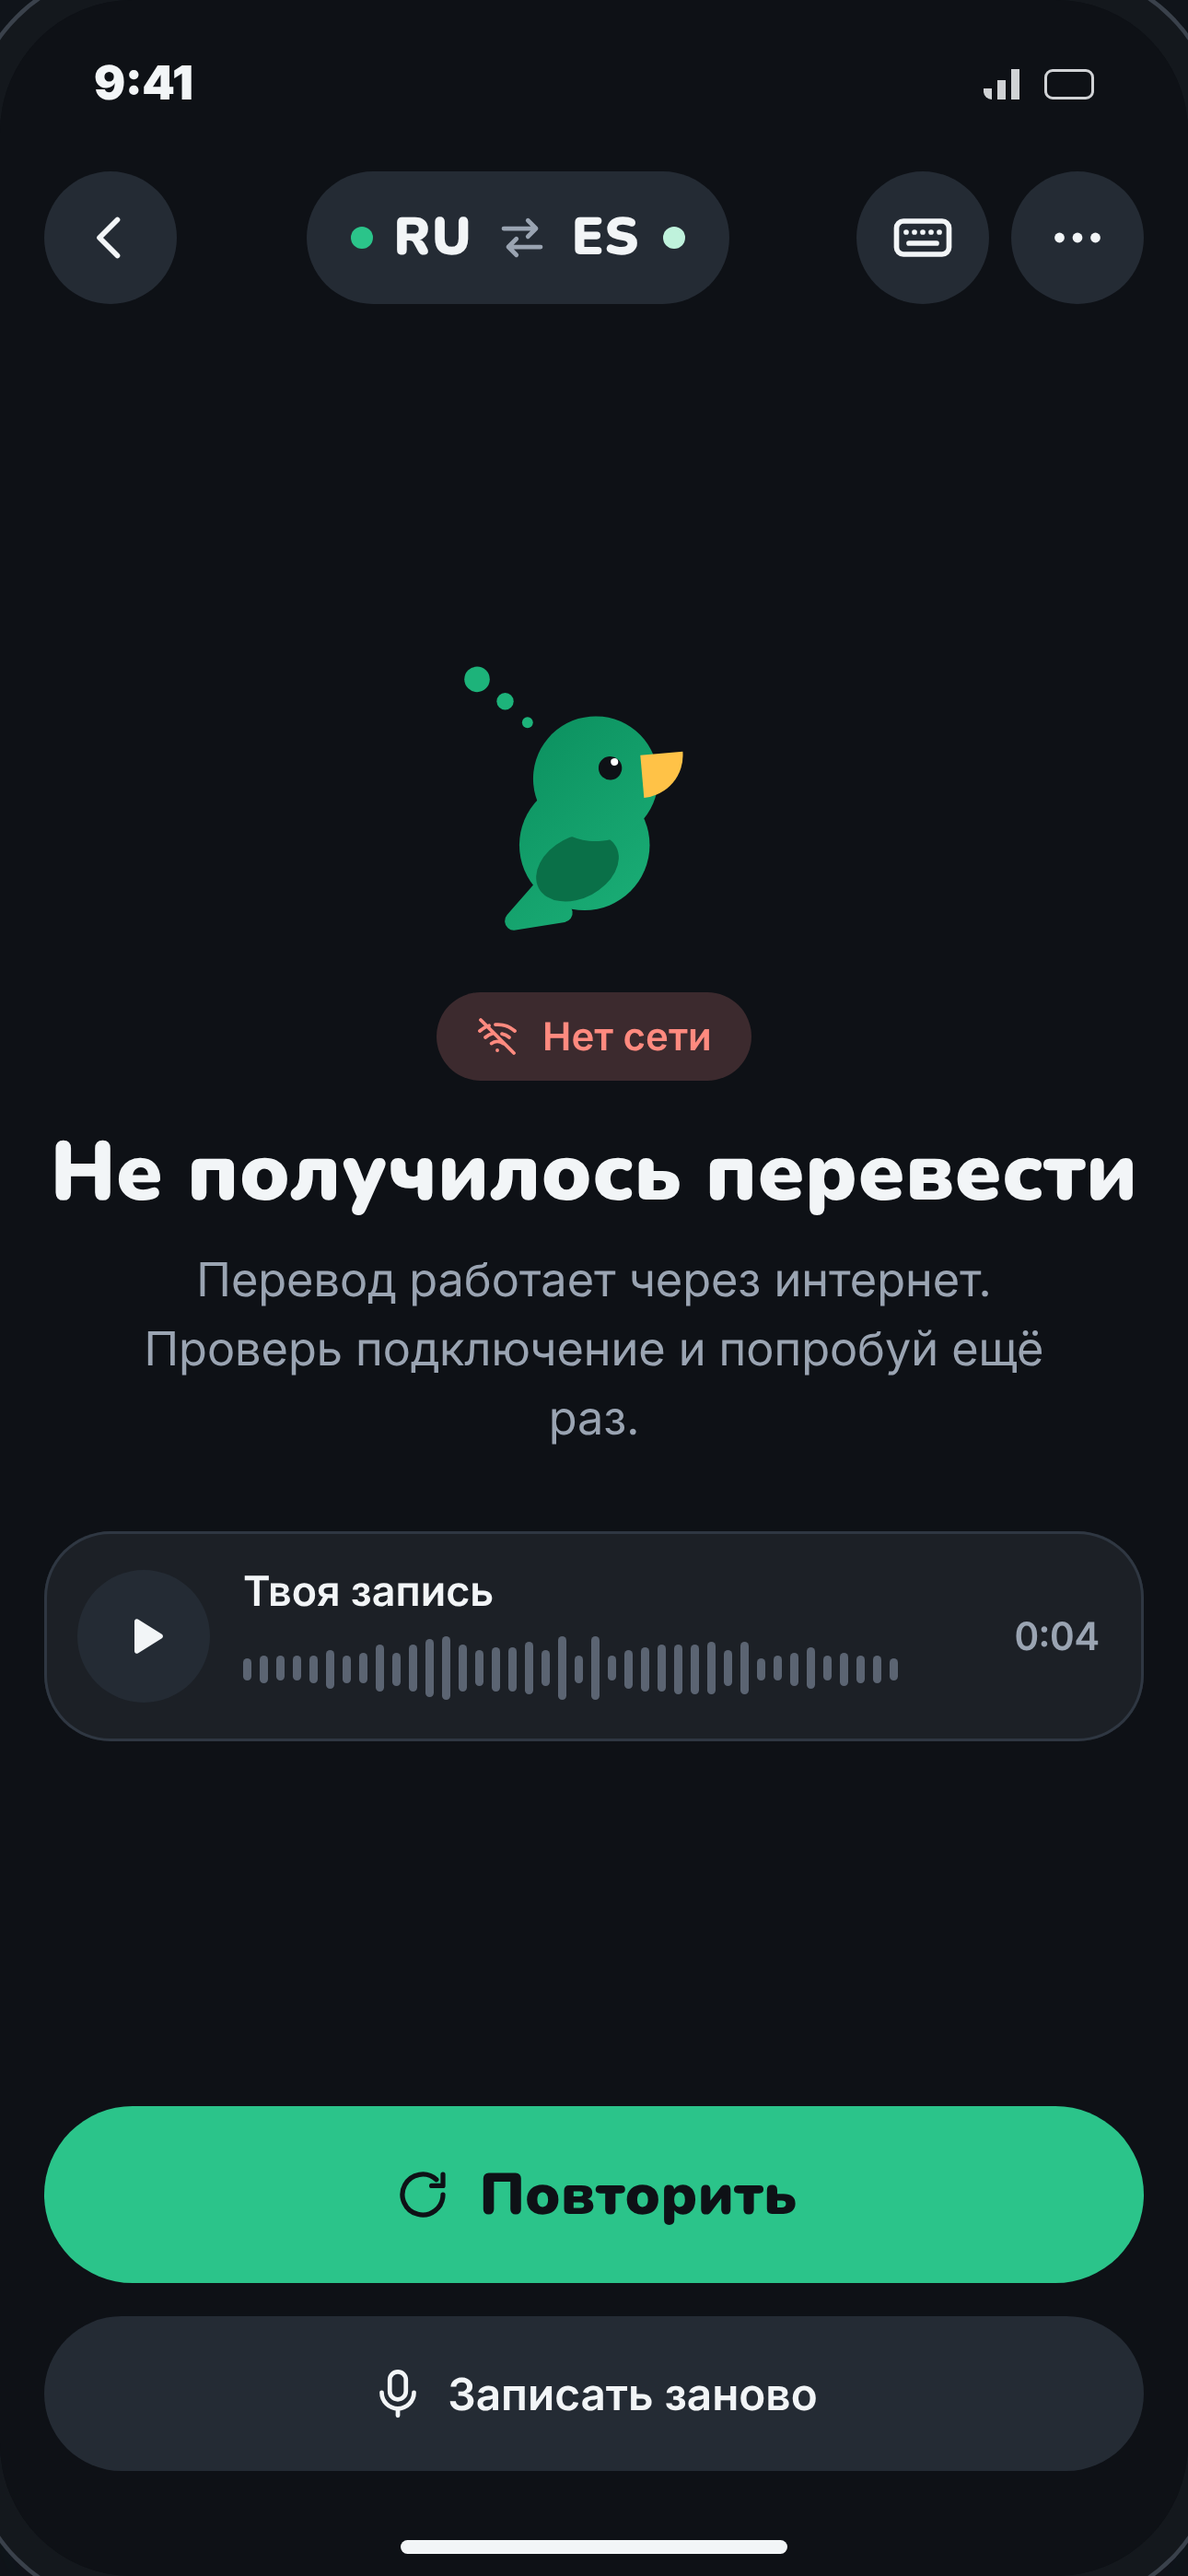
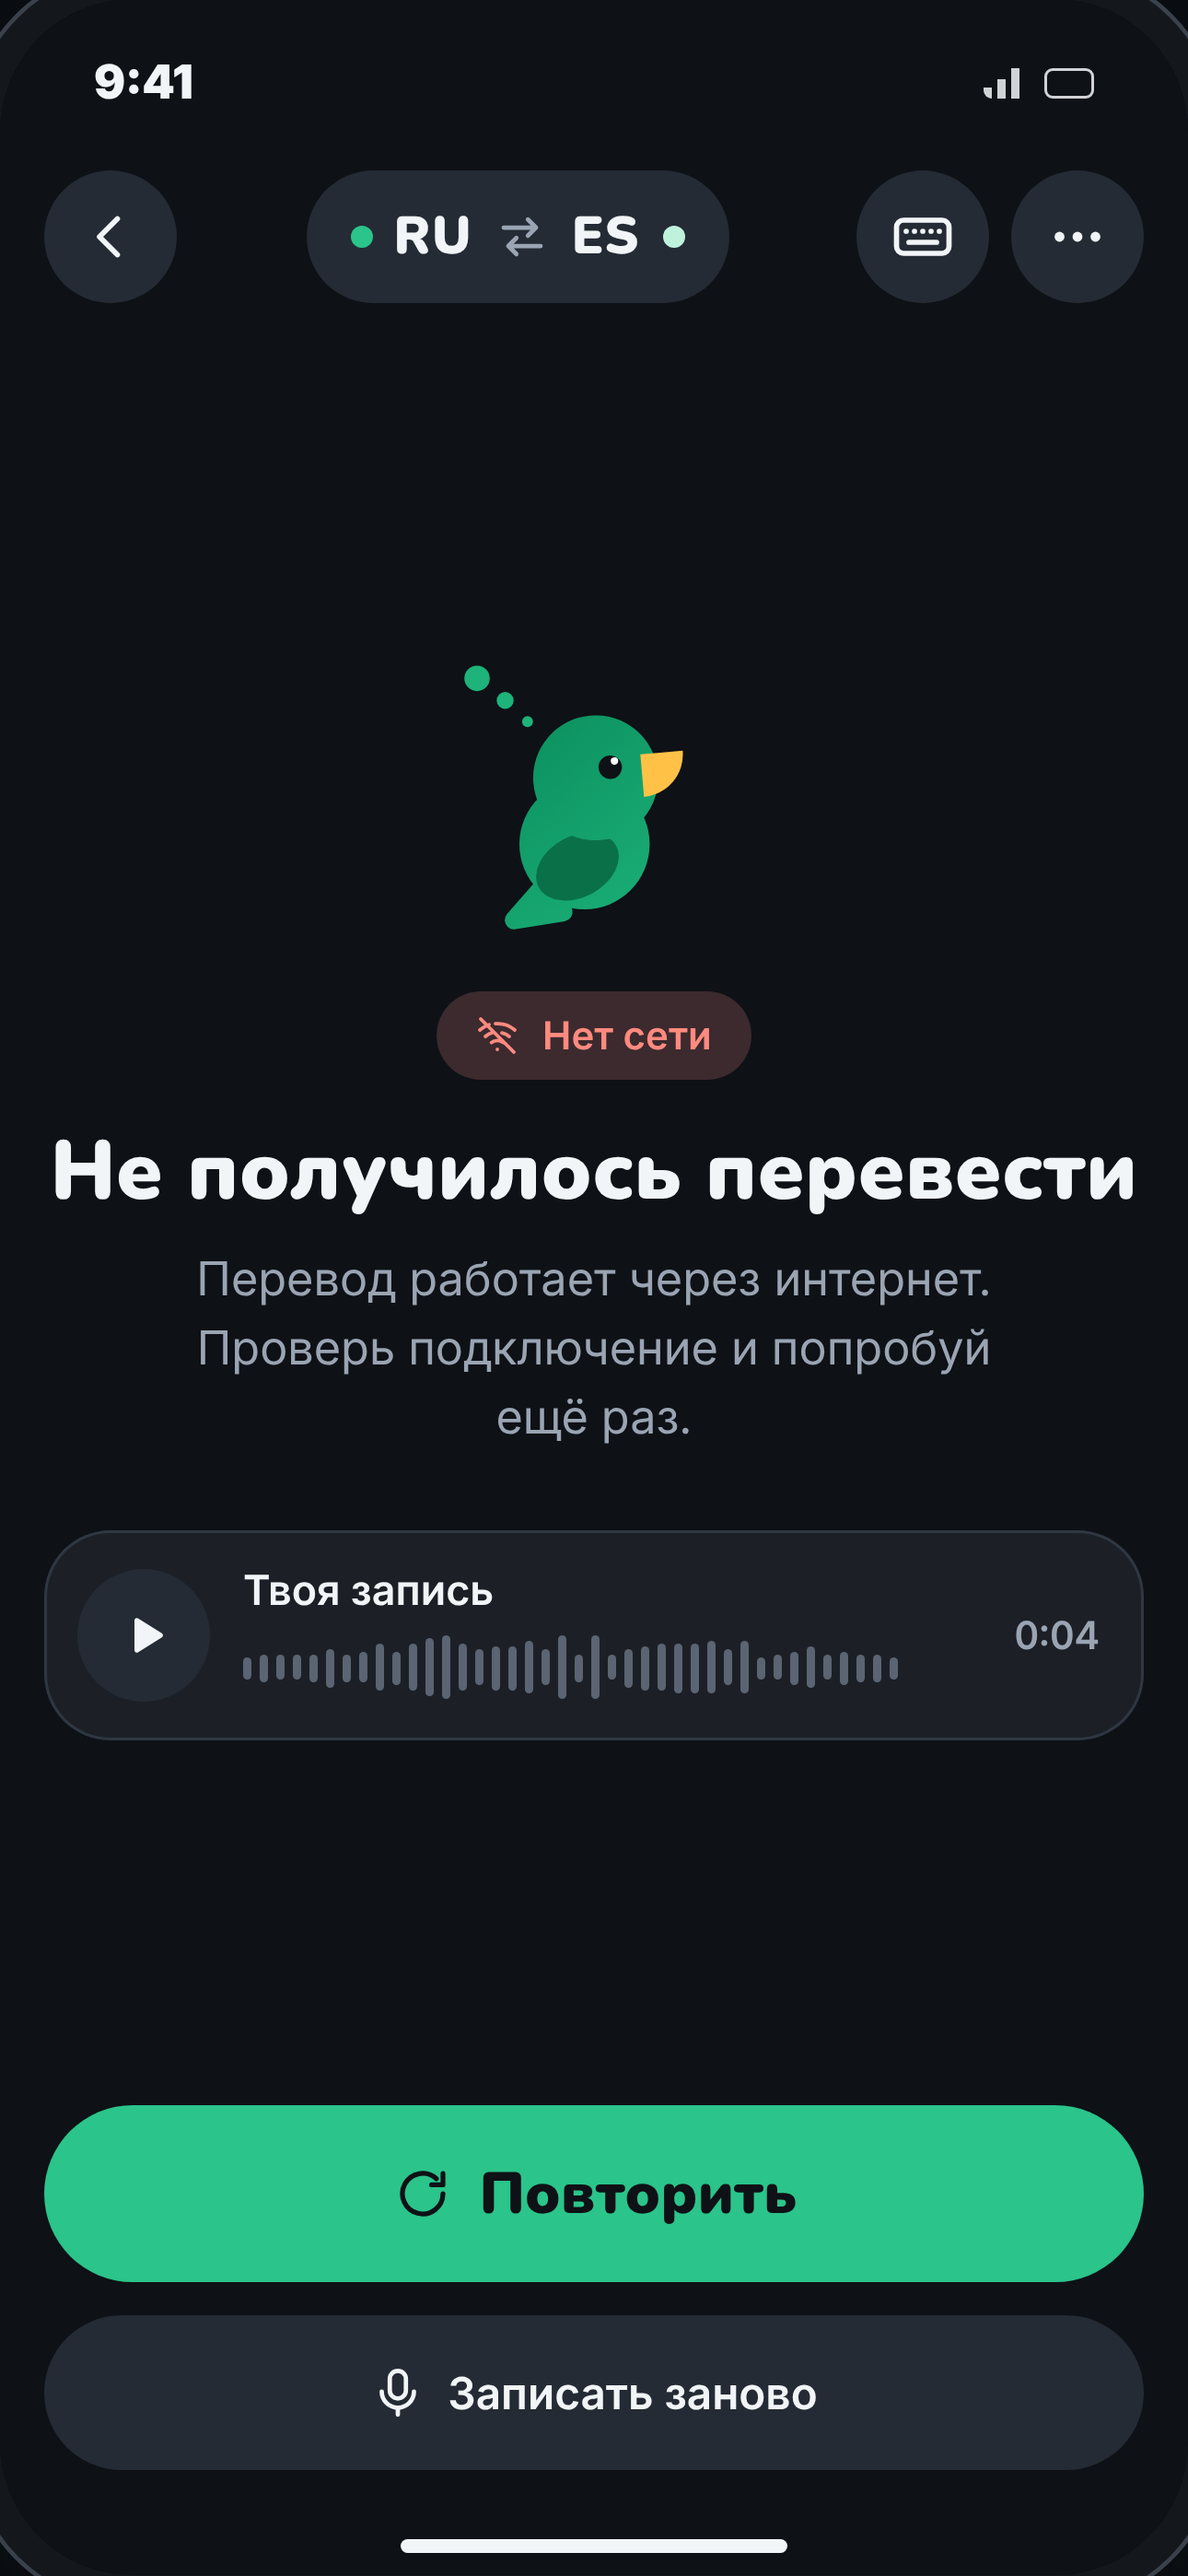
Translate · разговор: состояние turn-error — реплика не переведена (бейдж ошибки, «Повторить», оригинал остаётся), ru/es/en; ru «ещё раз» без висячего слова (#38)
Claude-Session: https://claude.ai/code/session_01XzoWkW25V1nW2Qv4cEPq3n

Changed region(s): [[0.124, 0.4979, 0.8682, 0.5601]]

diff --git a/site-v4/ref/translate-talk.html b/site-v4/ref/translate-talk.html
@@ -131,6 +131,14 @@ body{font:400 16px/1.5 Inter,system-ui,sans-serif;padding:32px 16px 80px}
 .translate-talk-meta{flex:none;font:500 12px/16px Inter,sans-serif;color:var(--sec);margin:2px 8px 8px}
 .translate-talk-meta.translate-talk-l{align-self:flex-start}
 .translate-talk-meta.translate-talk-r{align-self:flex-end}
+/* реплика не переведена: оригинал остаётся, вместо перевода — бейдж ошибки и «Повторить» */
+.translate-talk-bb.translate-talk-fail{max-width:100%}
+.translate-talk-fail .translate-talk-o{font:400 18px/25px Inter,sans-serif}
+.translate-talk-fl{display:flex;flex-wrap:wrap;align-items:center;gap:10px 12px}
+.translate-talk-fl .translate-talk-erb{margin-top:0}
+.translate-talk-flt{font:600 15px/20px Inter,sans-serif;color:#fff}
+.translate-talk-rt{margin-left:auto;display:inline-flex;align-items:center;gap:8px;height:48px;padding:0 18px;border-radius:24px;background:#005E40;color:#fff;font:600 16px Inter,sans-serif}
+.translate-talk-rt svg{width:20px;height:20px}
 
 /* лицом к лицу */
 .translate-talk-fc{padding:4px 12px 0}
@@ -244,7 +252,8 @@ ru:{
   ['p','Sí. Yo misma le abro la puerta a las cinco.','Да. Я {сама открою} ему дверь в пять.'],
   ['m','Отлично, тогда я буду дома в пять.','Perfecto, entonces estaré en casa a las cinco.']],
  face:{lbl:'Traducción para ti', play:'Escuchar', mic:'Yo hablo'}, mid:'Верх экрана — для собеседника', mine:'Твоя фраза · Русский', normal:'Обычный вид',
- err:{badge:'Нет сети', h:'Не получилось перевести', p:'Перевод работает через интернет. Проверь подключение и попробуй ещё раз.', clip:'Твоя запись', retry:'Повторить', redo:'Записать заново'},
+ tf:{badge:'Нет сети', h:'Не получилось перевести', retry:'Повторить'},
+ err:{badge:'Нет сети', h:'Не получилось перевести', p:'Перевод работает через интернет. Проверь подключение и попробуй ещё раз.', clip:'Твоя запись', retry:'Повторить', redo:'Записать заново'},
  page:{title:'Parrlo Translate · разговор',tag:'Эталон · пачка 2 · черновик текста',h1:'Translate · разговор лицом к лицу',
   lead:'T‑01 и T‑03 карты сайта. Один телефон на двоих: ты говоришь по‑русски, собеседник — по‑испански. Главный экран с двумя кнопками, запись с каждой стороны, лента разговора с правильным родом, режим «лицом к лицу» и ошибка с действием. Каркас — как у T‑02 и T‑10: та же шапка, блоки и нижняя панель. Только тёмная тема, интерфейс на «ты». Экран 430×932 pt, PNG @3× — 1290×2796.',
   heroH:'Главный кадр · разговор с администратором дома',
@@ -255,6 +264,7 @@ ru:{
       listening:['Говоришь ты','Нажали «Я говорю». Живой текст и волна в зелёной рамке, ниже — место для перевода. «Стоп» — перевести, «Отменить» — сбросить.'],
       'listening-other':['Говорит собеседник','Нажали «Yo hablo». Рамка и волна мятные; подсказка — на языке собеседника, «Стоп» подписан на обоих языках.'],
       conversation:['Разговор','T‑03. Реплики по очереди, род собеседника учтён. Следующая кнопка — с кольцом, очередь названа словами.'],
+      'turn-error':['Реплика не переведена','Связь пропала на одной реплике. Фраза остаётся в ленте, вместо перевода — бейдж и «Повторить»; разговор не прерывается. Сервер недоступен — бейдж «Сервер недоступен».'],
       face:['Лицом к лицу','Нажали «Показать». Верхняя половина развёрнута к собеседнику: он читает перевод и сам отвечает. Нижняя — твоя.'],
       error:['Нет сети','Связь пропала после записи. Запись можно прослушать; «Повторить» отправит её на перевод ещё раз.']},
   hDec:'Решения',
@@ -293,6 +303,7 @@ es:{
   ['p','Да. Я сама открою ему дверь в пять.','Sí. Yo {misma} le abro la puerta a las cinco.'],
   ['m','Perfecto, entonces estaré en casa a las cinco.','Отлично, тогда я буду дома в пять.']],
  face:{lbl:'Перевод для тебя', play:'Озвучить', mic:'Я говорю'}, mid:'La parte de arriba es para la otra persona', mine:'Tu frase · Español', normal:'Vista normal',
+ tf:{badge:'Sin conexión', h:'No se pudo traducir', retry:'Reintentar'},
  err:{badge:'Sin conexión', h:'No se pudo traducir', p:'La traducción necesita internet. Revisa la conexión y vuelve a intentarlo.', clip:'Tu grabación', retry:'Reintentar', redo:'Grabar de nuevo'},
  page:{title:'Parrlo Translate · conversación',tag:'Referencia · lote 2 · textos en borrador',h1:'Translate · conversación cara a cara',
   lead:'T‑01 y T‑03 del mapa del sitio. Un móvil para dos: tú hablas en español y la otra persona, en ruso. Pantalla principal con dos botones, grabación de cada lado, conversación con el género correcto, modo cara a cara y error con acción. Misma estructura que T‑02 y T‑10: cabecera, bloques y panel inferior. Solo tema oscuro, interfaz de «tú». Pantalla de 430×932 pt, PNG @3×: 1290×2796.',
@@ -304,6 +315,7 @@ es:{
       listening:['Hablas tú','Tras pulsar «Hablo yo». Texto en vivo y onda con borde verde; debajo, el hueco para la traducción. «Parar» traduce, «Cancelar» descarta.'],
       'listening-other':['Habla la otra persona','Tras pulsar «Я говорю». Borde y onda en menta; el aviso, en el idioma de la otra persona, y «Parar» en los dos idiomas.'],
       conversation:['Conversación','T‑03. Frases por turnos con el género de la otra persona. El siguiente botón lleva anillo y el turno se dice con palabras.'],
+      'turn-error':['Frase sin traducir','Se cortó la red en una frase. La frase sigue en la conversación; en lugar de la traducción, una etiqueta y «Reintentar». La conversación sigue. Si falla el servidor: «Servidor no disponible».'],
       face:['Cara a cara','Tras pulsar «Mostrar». La mitad de arriba, girada hacia la otra persona: lee la traducción y responde sola. La de abajo es tuya.'],
       error:['Sin conexión','Se cortó la red tras grabar. Puedes escuchar la grabación; «Reintentar» la vuelve a enviar.']},
   hDec:'Decisiones',
@@ -342,6 +354,7 @@ en:{
   ['p','Sí. Yo misma le abro la puerta a las cinco.','Yes. I’ll let him in myself at five.'],
   ['m','Perfect, then I’ll be home at five.','Perfecto, entonces estaré en casa a las cinco.']],
  face:{lbl:'Traducción para ti', play:'Escuchar', mic:'Yo hablo'}, mid:'Top half faces the other person', mine:'Your phrase · English', normal:'Normal view',
+ tf:{badge:'No connection', h:'Couldn’t translate', retry:'Try again'},
  err:{badge:'No connection', h:'Couldn’t translate', p:'Translation needs the internet. Check your connection and try again.', clip:'Your recording', retry:'Try again', redo:'Record again'},
  page:{title:'Parrlo Translate · conversation',tag:'Reference · batch 2 · draft copy',h1:'Translate · face‑to‑face conversation',
   lead:'T‑01 and T‑03 on the site map. One phone for two: you speak English, the other person speaks Spanish. Home screen with two buttons, recording from each side, a conversation with the right gender, face‑to‑face mode and an error with an action. Same layout as T‑02 and T‑10: header, blocks and bottom panel. Dark theme only. Screen 430×932 pt, PNG @3×: 1290×2796.',
@@ -353,6 +366,7 @@ en:{
       listening:['You’re speaking','After “I speak”. Live text and wave in a green frame, the translation slot below. Stop translates, Cancel throws it away.'],
       'listening-other':['They’re speaking','After “Yo hablo”. Frame and wave turn mint; the prompt is in their language, and Stop is labeled in both.'],
       conversation:['Conversation','T‑03. Turns back and forth, the other person’s gender applied. The next button gets a ring, and the turn is named in words.'],
+      'turn-error':['Turn not translated','The network dropped on one turn. The phrase stays in the conversation; instead of the translation there’s a badge and Try again. The conversation carries on. Server down: “Server unavailable”.'],
       face:['Face to face','After Show. The top half turns to the other person: they read the translation and reply on their own. The bottom half is yours.'],
       error:['No connection','The network dropped after recording. You can play the recording back; Try again resends it.']},
   hDec:'Decisions',
@@ -431,6 +445,19 @@ function screen(st,t){
    `<div class="${P}hint">${I.down}${t.hTurn}</div><div class="${P}btns">${pbMe()}${pbPt(P+'next')}</div>`);
  }
 
+ if(st==='turn-error'){
+  const times=['9:41','9:41','9:42','9:43','9:43'];
+  const c=t.conv.slice(0,4), n=c.length, f=t.tf;
+  const feed=c.map(([s,o,tr],i)=>{
+   if(s==='p') return `<div class="${P}bb ${P}l" role="button" aria-label="${t.aOrig}"><span class="${P}t" lang="${t.ml}">${gw(tr)}</span><span class="${P}orig">${I.chevd}${t.orig} · ${t.pair[1]}</span></div><div class="${P}meta ${P}l">${t.who[0]} · ${times[i]}</div>`;
+   return `<div class="${P}bb ${P}r"><span class="${P}o" lang="${t.ml}">${o}</span><span class="${P}t" lang="${t.pl}">${gw(tr)}</span></div><div class="${P}meta ${P}r">${t.who[1]} · ${times[i]}</div>`;
+  }).join('')+`<div class="${P}bb ${P}r ${P}fail" role="group" aria-label="${f.h}"><span class="${P}o" lang="${t.ml}">${t.conv[4][1]}</span><span class="${P}fl"><span class="${P}erb">${I.wifioff}${f.badge}</span><span class="${P}flt">${f.h}</span><span class="${P}rt" role="button">${I.retry}${f.retry}</span></span></div><div class="${P}meta ${P}r">${t.who[1]} · ${times[4]}</div>`;
+  return wrap(`${top}<div class="${P}main ${P}conv">
+   <span class="${P}gchip" role="button"><span class="${P}av">${I.person}</span>${t.gchip[0]}<span>· ${t.gchip[1]}</span>${I.chev}</span>
+   <div class="${P}feed">${feed}</div></div>`,
+   `<div class="${P}btns">${pbMe()}${pbPt()}</div>`);
+ }
+
  if(st==='face'){
   const last=t.conv[t.conv.length-1];
   return wrap(`<div class="${P}main ${P}fc">
@@ -462,7 +489,7 @@ function Lu(h){const c=[1,3,5].map(i=>parseInt(h.substr(i,2),16)/255).map(v=>v<=
 function cr(a,b){const x=Lu(a),y=Lu(b);return (Math.max(x,y)+.05)/(Math.min(x,y)+.05);}
 const PAIRS=[['#F2F5F7','#0E1116',4.5],['#9AA4B2','#0E1116',4.5],['#9AA4B2','#1C2026',4.5],['#F2F5F7','#242B34',4.5],['#0E1116','#2BC48A',4.5],['#0E1116','#BFF2DC',4.5],['#2E4A3F','#BFF2DC',4.5],['#BFF2DC','#243A33',4.5],['#FFFFFF','#00875C',4.5],['#FFFFFF','#00875C',3],['#FFFFFF','#005E40',4.5],['#0E1116','#FFFFFF',4.5],['#0E1116','#F2F5F7',4.5],['#FF8A7F','#3C2A2E',4.5]];
 
-const STATES=['idle','listening','listening-other','conversation','face','error'];
+const STATES=['idle','listening','listening-other','conversation','turn-error','face','error'];
 const ph=(id,s,html)=>`<div class="pf p67" id="${id}" style="--s:${s}"><div class="shell"></div><div class="glass">${html}</div></div>`;
 const $=id=>document.getElementById(P+id);
 function render(){
